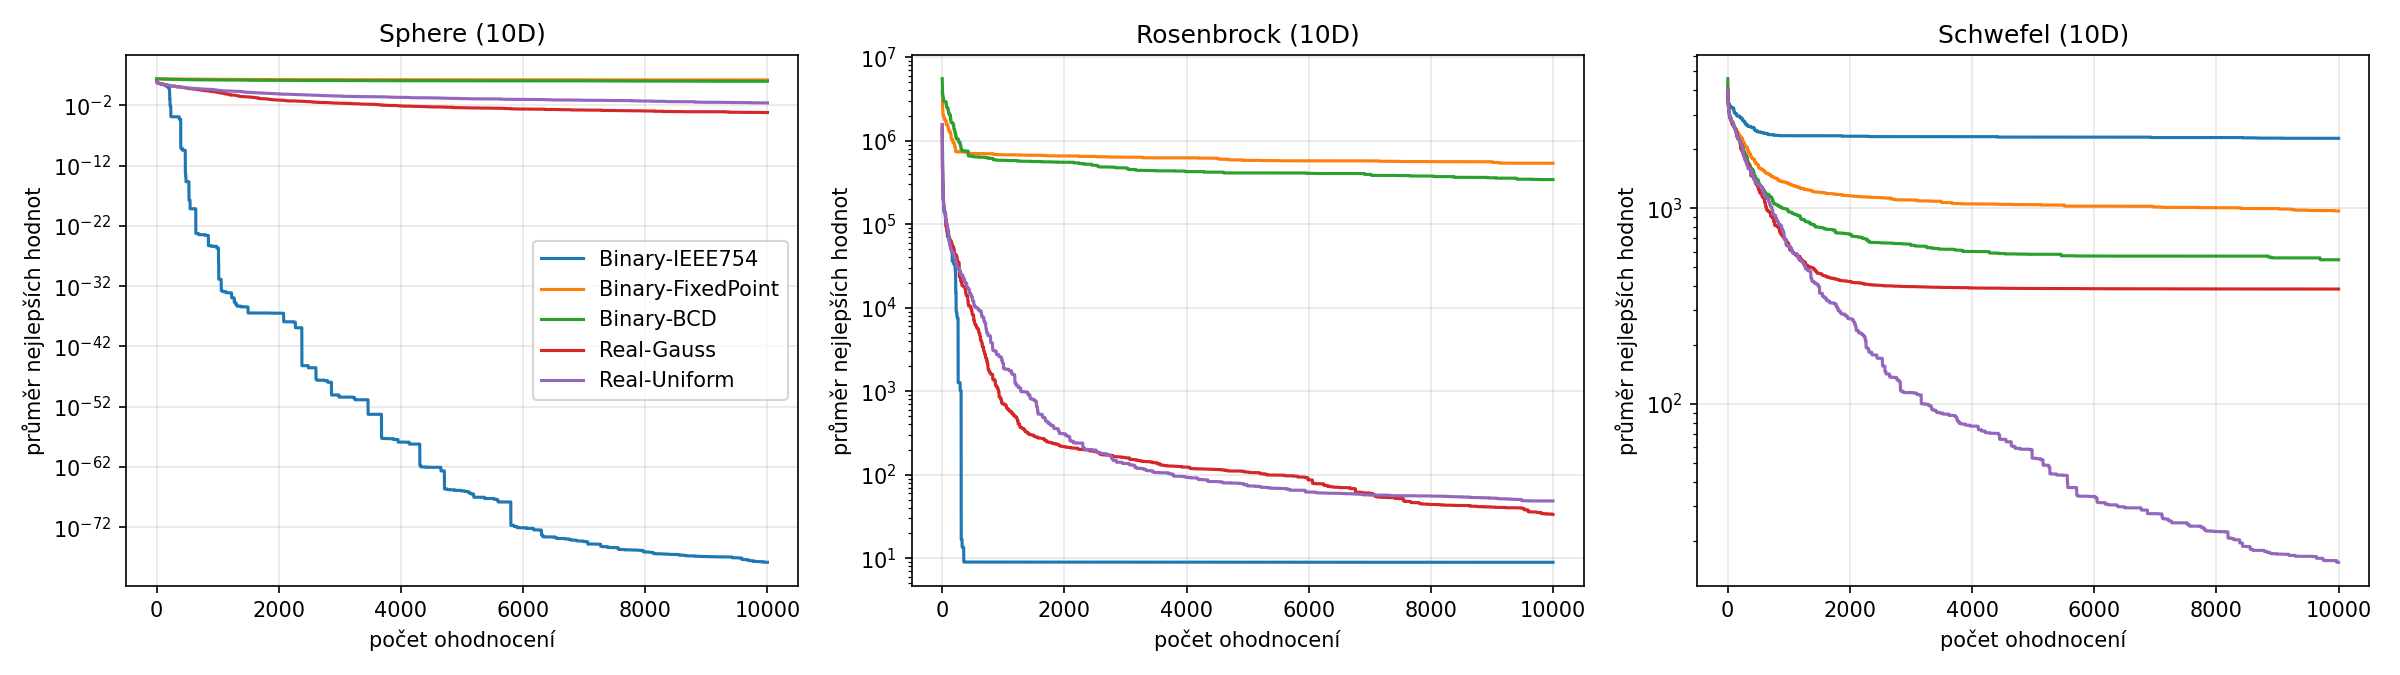
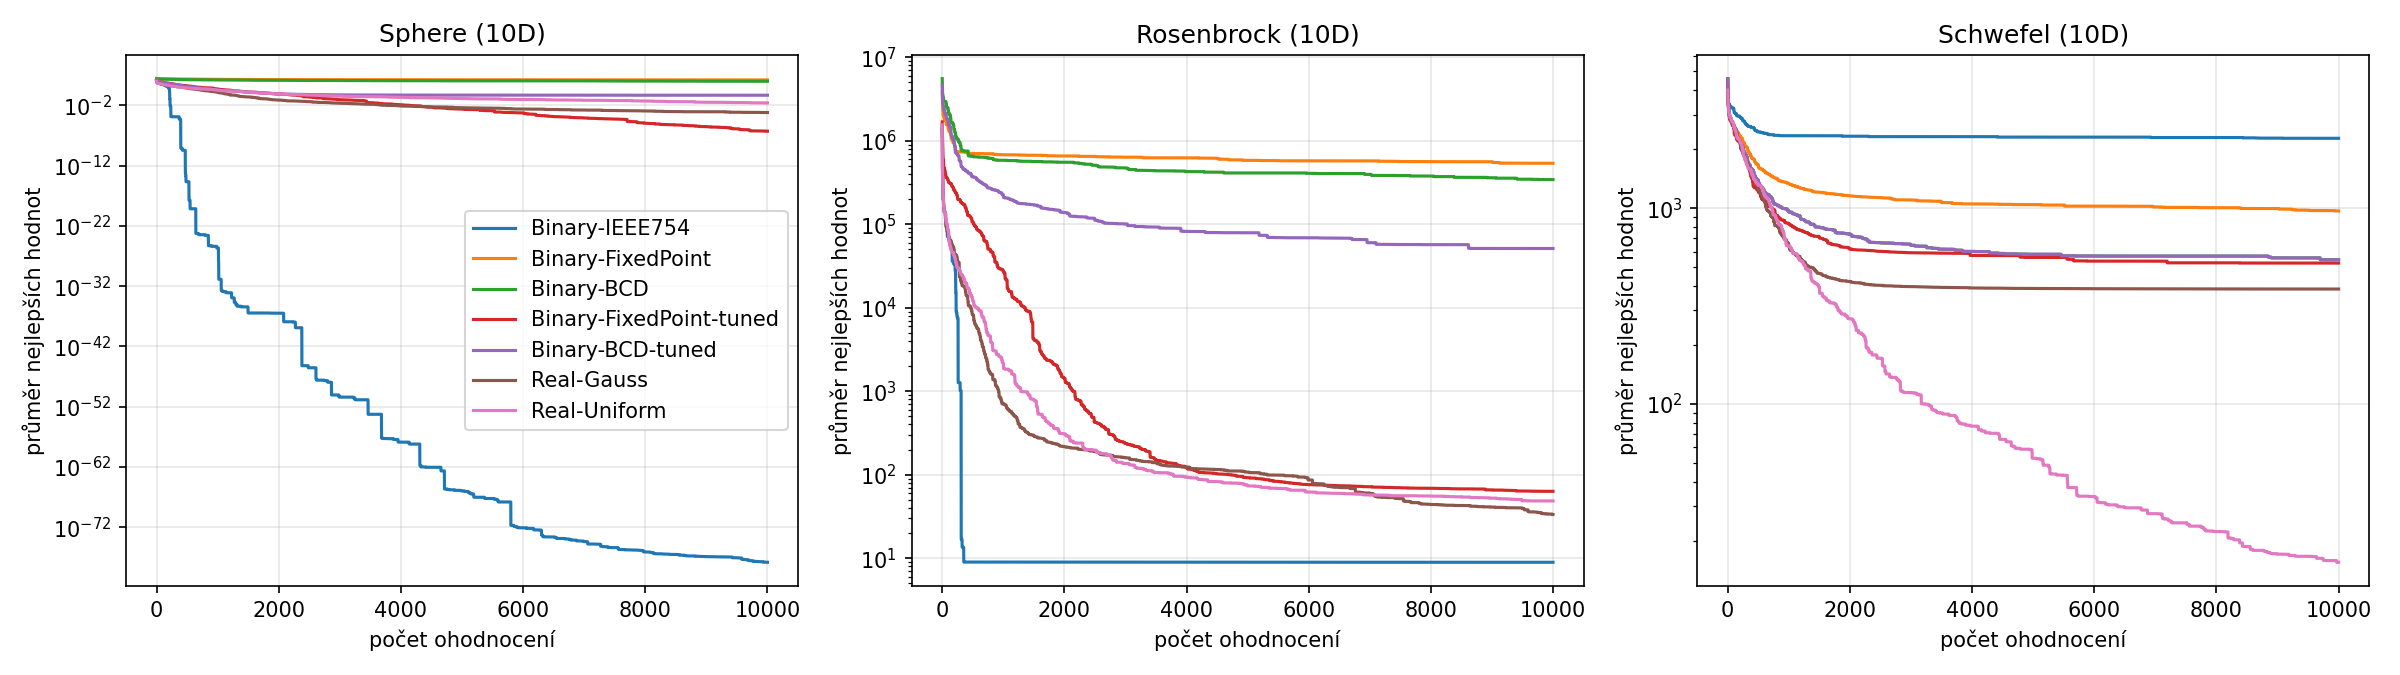
Ukol2: add range-tuned Fixed-Point/BCD variants and verify IEEE 754 Rosenbrock behaviour

diff --git a/Ukol2/ga_real.py b/Ukol2/ga_real.py
@@ -107,10 +107,40 @@ def decode_bcd(bits: np.ndarray, lo: float, hi: float) -> np.ndarray:
     return _sanitize(sign * magnitude, lo, hi)
 
 
+def decode_fixed_point_tuned(bits: np.ndarray, lo: float, hi: float) -> np.ndarray:
+    """Fixed-point s dělením bitů přizpůsobeným rozsahu úlohy.
+
+    1 bit znaménko, `int_bits` = nejmenší počet bitů pro celou část max(|lo|, |hi|),
+    zbylé bity (31 - int_bits) desetinná část.
+    """
+    int_bits = int(np.ceil(np.log2(max(abs(lo), abs(hi)) + 1.0)))
+    frac_bits = BITS_PER_DIM - 1 - int_bits
+    sign = np.where(bits[..., 0] == 1, -1.0, 1.0)
+    integer = _bits_to_uint(bits[..., 1 : 1 + int_bits]).astype(np.float64)
+    fraction = _bits_to_uint(bits[..., 1 + int_bits :]).astype(np.float64) / 2.0**frac_bits
+    return _sanitize(sign * (integer + fraction), lo, hi)
+
+
+def decode_bcd_tuned(bits: np.ndarray, lo: float, hi: float) -> np.ndarray:
+    """BCD s dělením číslic přizpůsobeným rozsahu: [znaménko] [celé] [desetinné].
+
+    Počet celých číslic odpovídá max(|lo|, |hi|), zbylé číslice jsou desetinné.
+    """
+    int_digits = len(str(int(max(abs(lo), abs(hi)))))
+    nibbles = bits.reshape(*bits.shape[:-1], 8, 4)
+    digits = (nibbles * np.array([8, 4, 2, 1])).sum(axis=-1) % 10
+    sign = np.where(digits[..., 0] >= 5, -1.0, 1.0)
+    exponents = 10.0 ** np.arange(int_digits - 1, int_digits - 8, -1)
+    magnitude = (digits[..., 1:] * exponents).sum(axis=-1)
+    return _sanitize(sign * magnitude, lo, hi)
+
+
 DECODERS = {
     "IEEE754": decode_ieee754,
     "FixedPoint": decode_fixed_point,
     "BCD": decode_bcd,
+    "FixedPoint-tuned": decode_fixed_point_tuned,
+    "BCD-tuned": decode_bcd_tuned,
 }
 
 # ---------------------------------------------------------------------------
